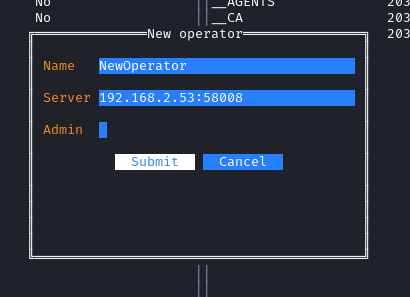
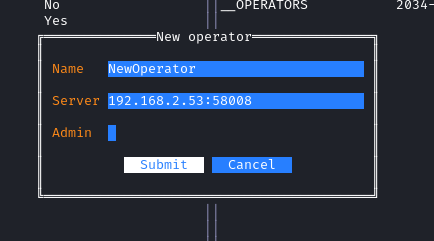
Update new operator form

diff --git a/cmd/client/tui/forms/operator.go b/cmd/client/tui/forms/operator.go
@@ -50,7 +50,7 @@ func NewOperatorForm() *OperatorForm {
 	gen.AddItem(nil, 0, 1, false).
 		AddItem(tview.NewFlex().SetDirection(tview.FlexRow).
 			AddItem(nil, 0, 1, false).
-			AddItem(gen.form, 15, 1, true).
+			AddItem(gen.form, 11, 1, true).
 			AddItem(nil, 0, 1, false), 0, 1, true).
 		AddItem(nil, 0, 1, false)
 
